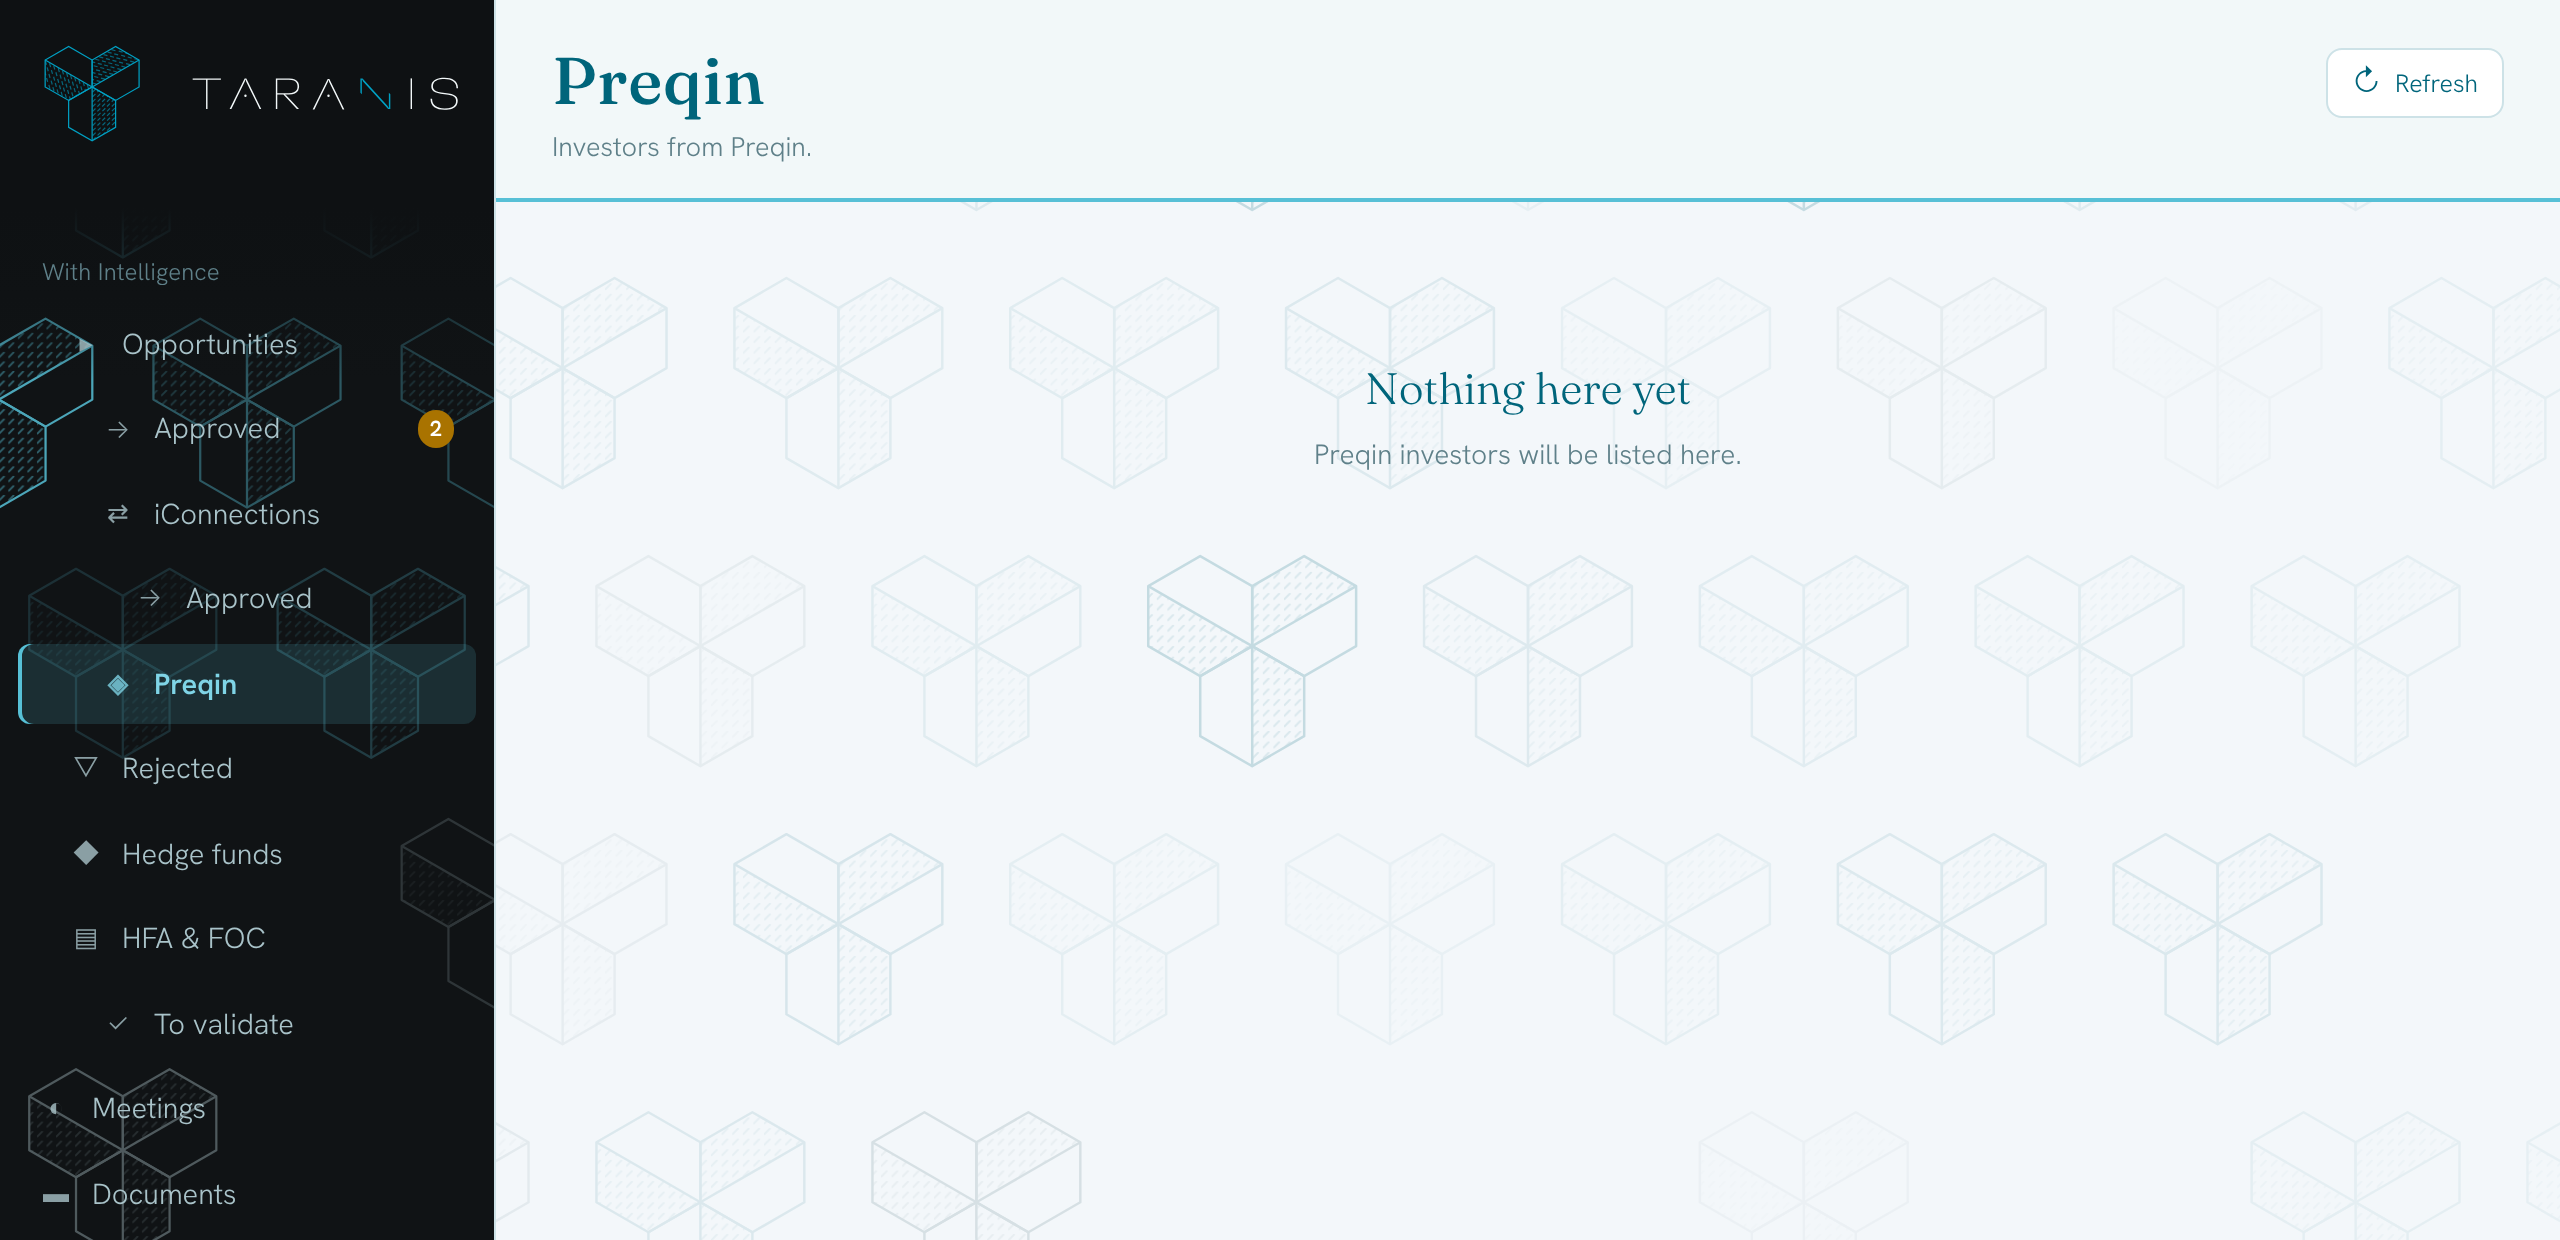
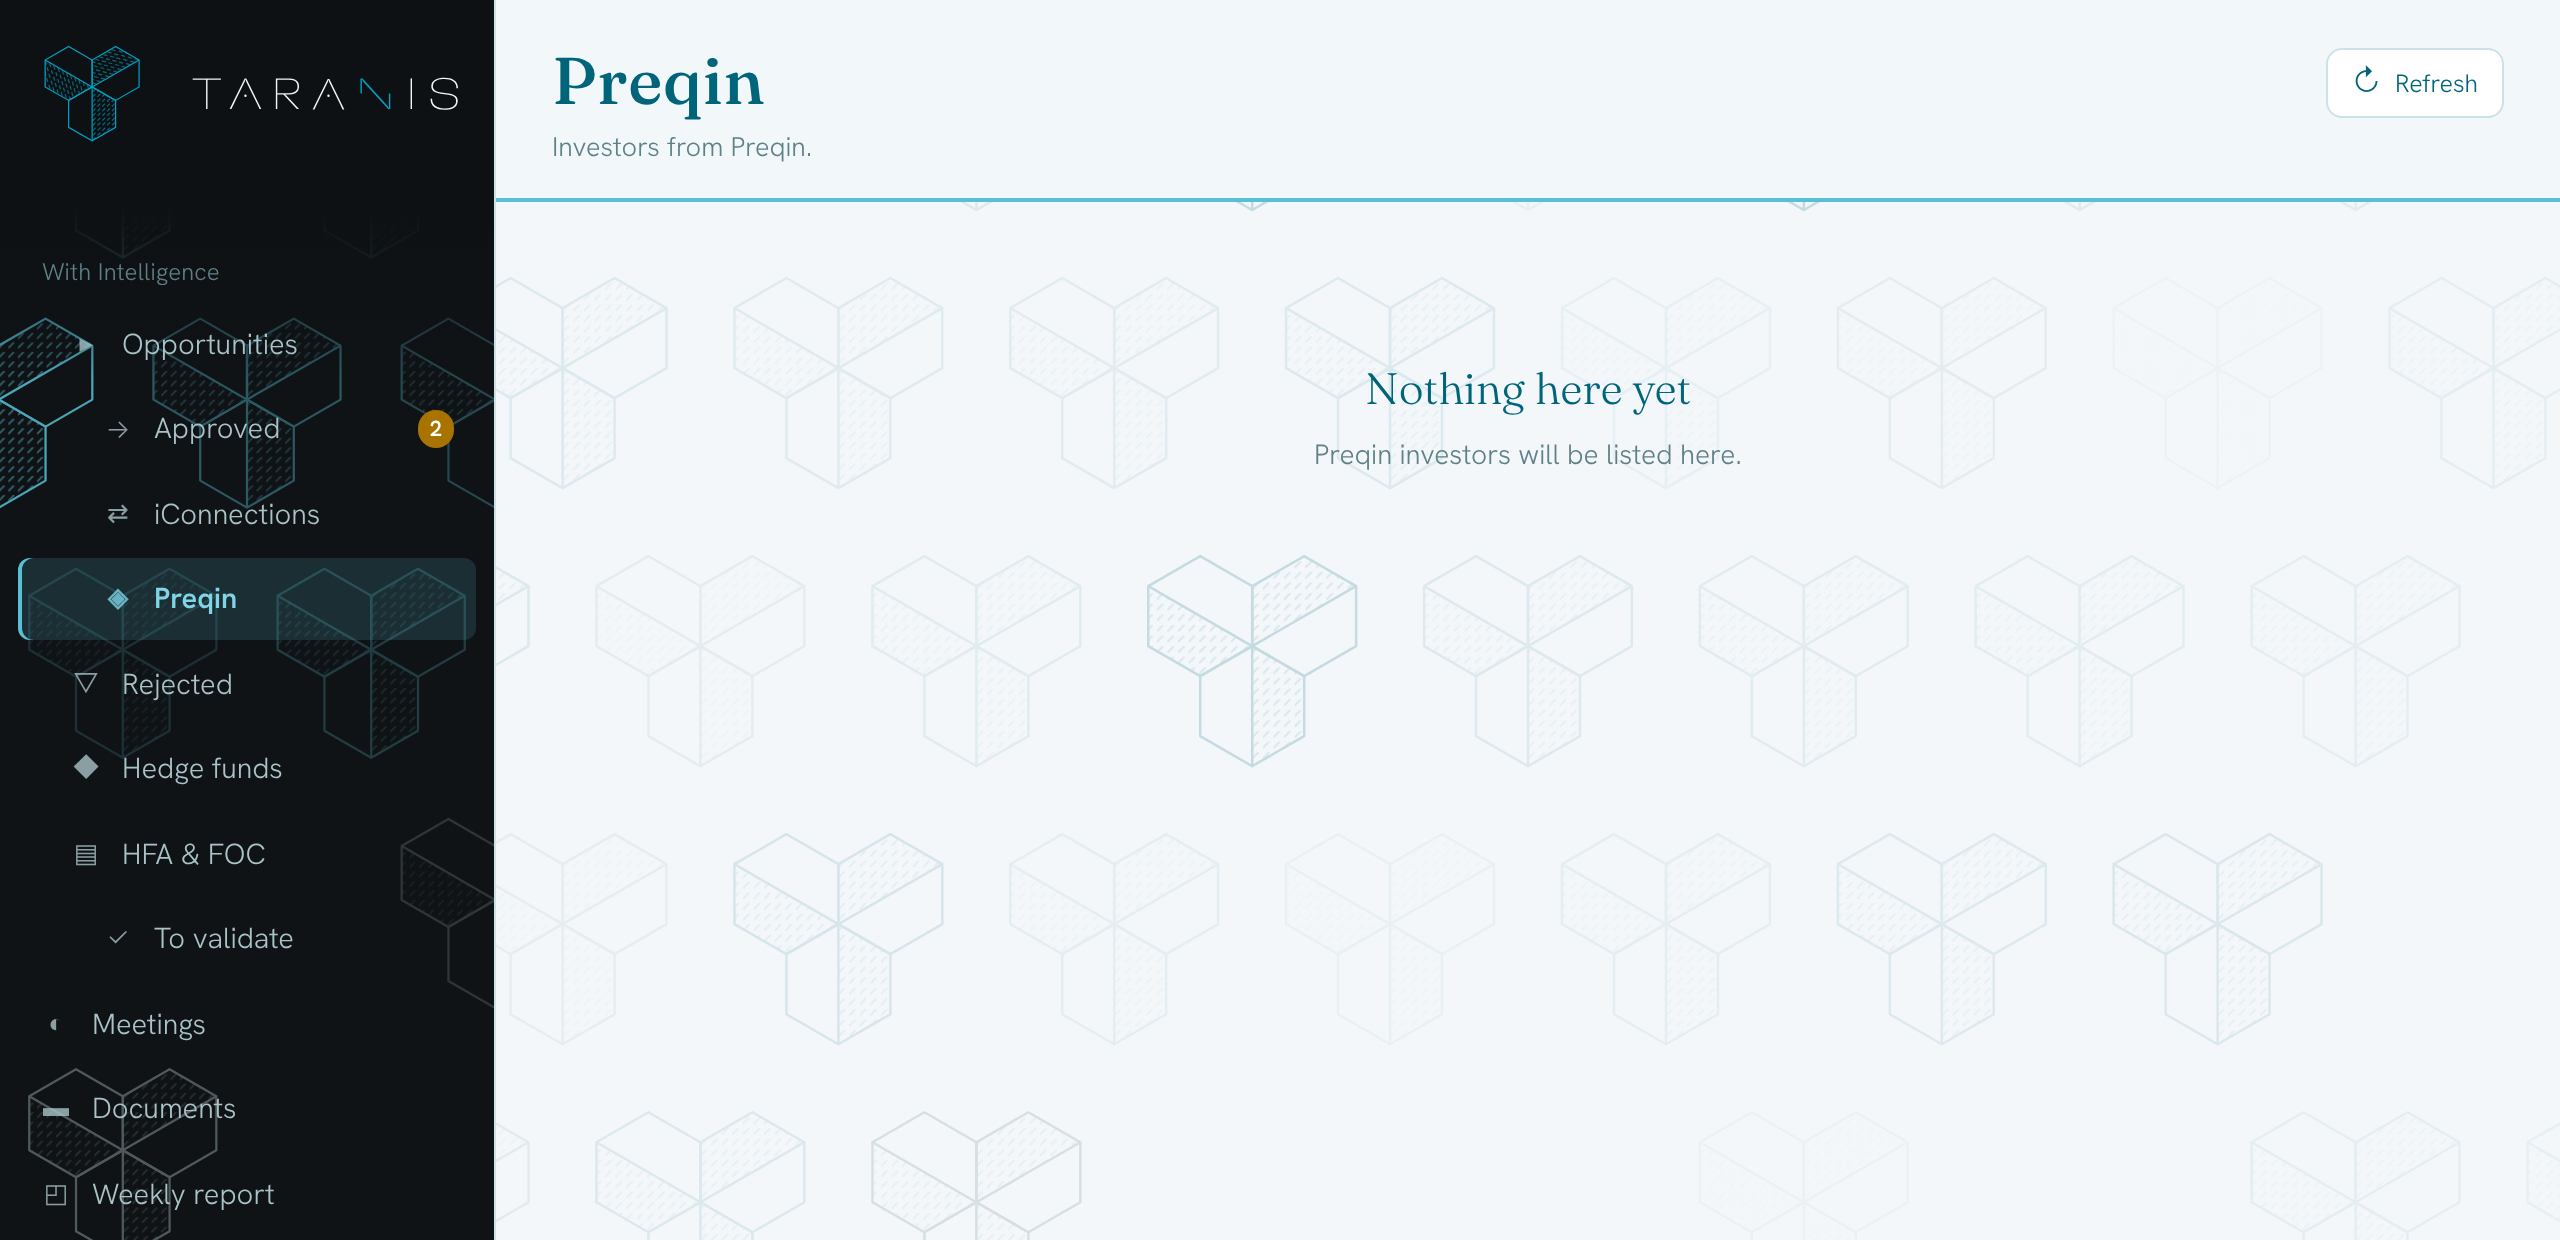
Remove the iConnections > Approved sub-tab
Claude-Session: https://claude.ai/code/session_01U33ywHjQFVUYNXC5CP776w

diff --git a/app.js b/app.js
@@ -1376,8 +1376,6 @@ const TABS = [
   // Not the hidden 'iconn' export matcher further down, which stays as it is.
   { id: 'oppsiconn', icon: '⇄', label: 'iConnections', title: 'iConnections', group: 'wi', sub2: true,
     sub: 'Allocators from iConnections.' },
-  { id: 'oppsiconnok', icon: '→', label: 'Approved', title: 'Approved iConnections allocators', group: 'wi', sub3: true,
-    sub: 'The iConnections allocators a person has approved.' },
   // Empty for now (17 Nov 2026): directly under iConnections, at the same level.
   { id: 'preqin',   icon: '◈', label: 'Preqin',        title: 'Preqin', group: 'wi', sub2: true,
     sub: 'Investors from Preqin.' },
@@ -10415,9 +10413,6 @@ function importIconnections() {
 // Placeholder views (17 Nov 2026): no data is read yet.
 RENDER.oppsiconn = function (body) {
   body.appendChild(empty('Nothing here yet', 'iConnections allocators will be listed here.'));
-};
-RENDER.oppsiconnok = function (body) {
-  body.appendChild(empty('Nothing here yet', 'Approved iConnections allocators will be listed here.'));
 };
 RENDER.preqin = function (body) {
   body.appendChild(empty('Nothing here yet', 'Preqin investors will be listed here.'));
